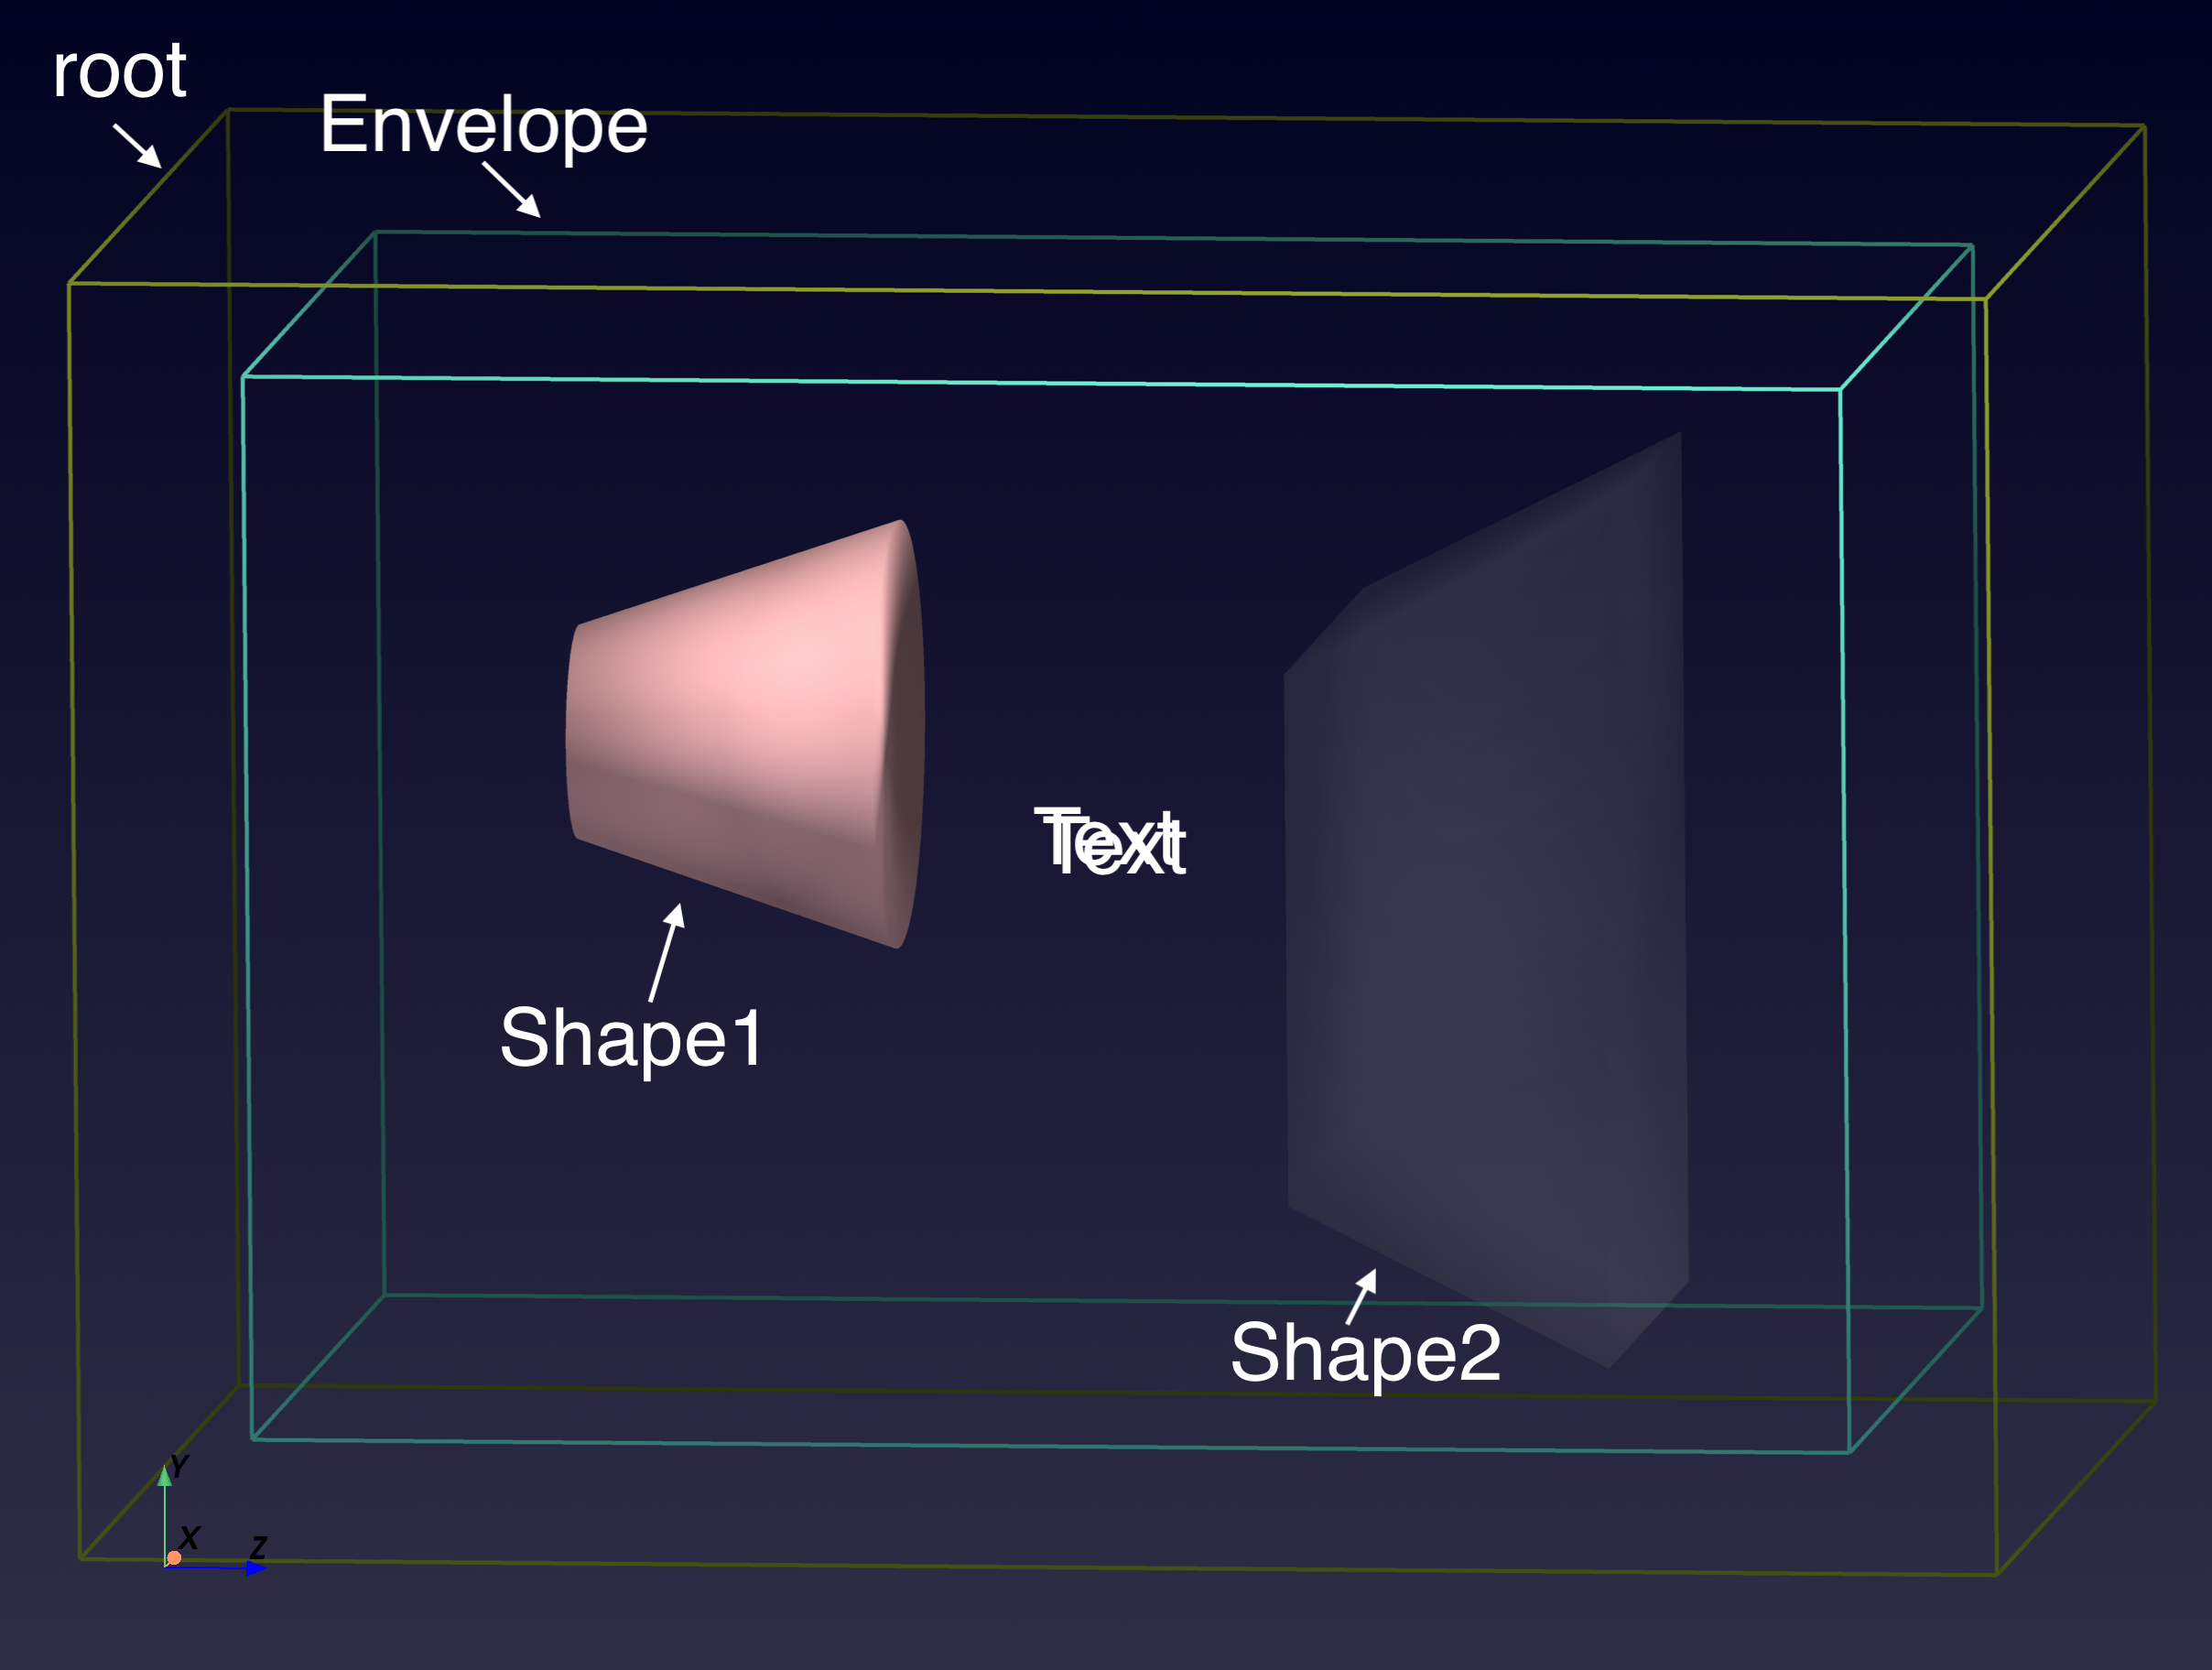
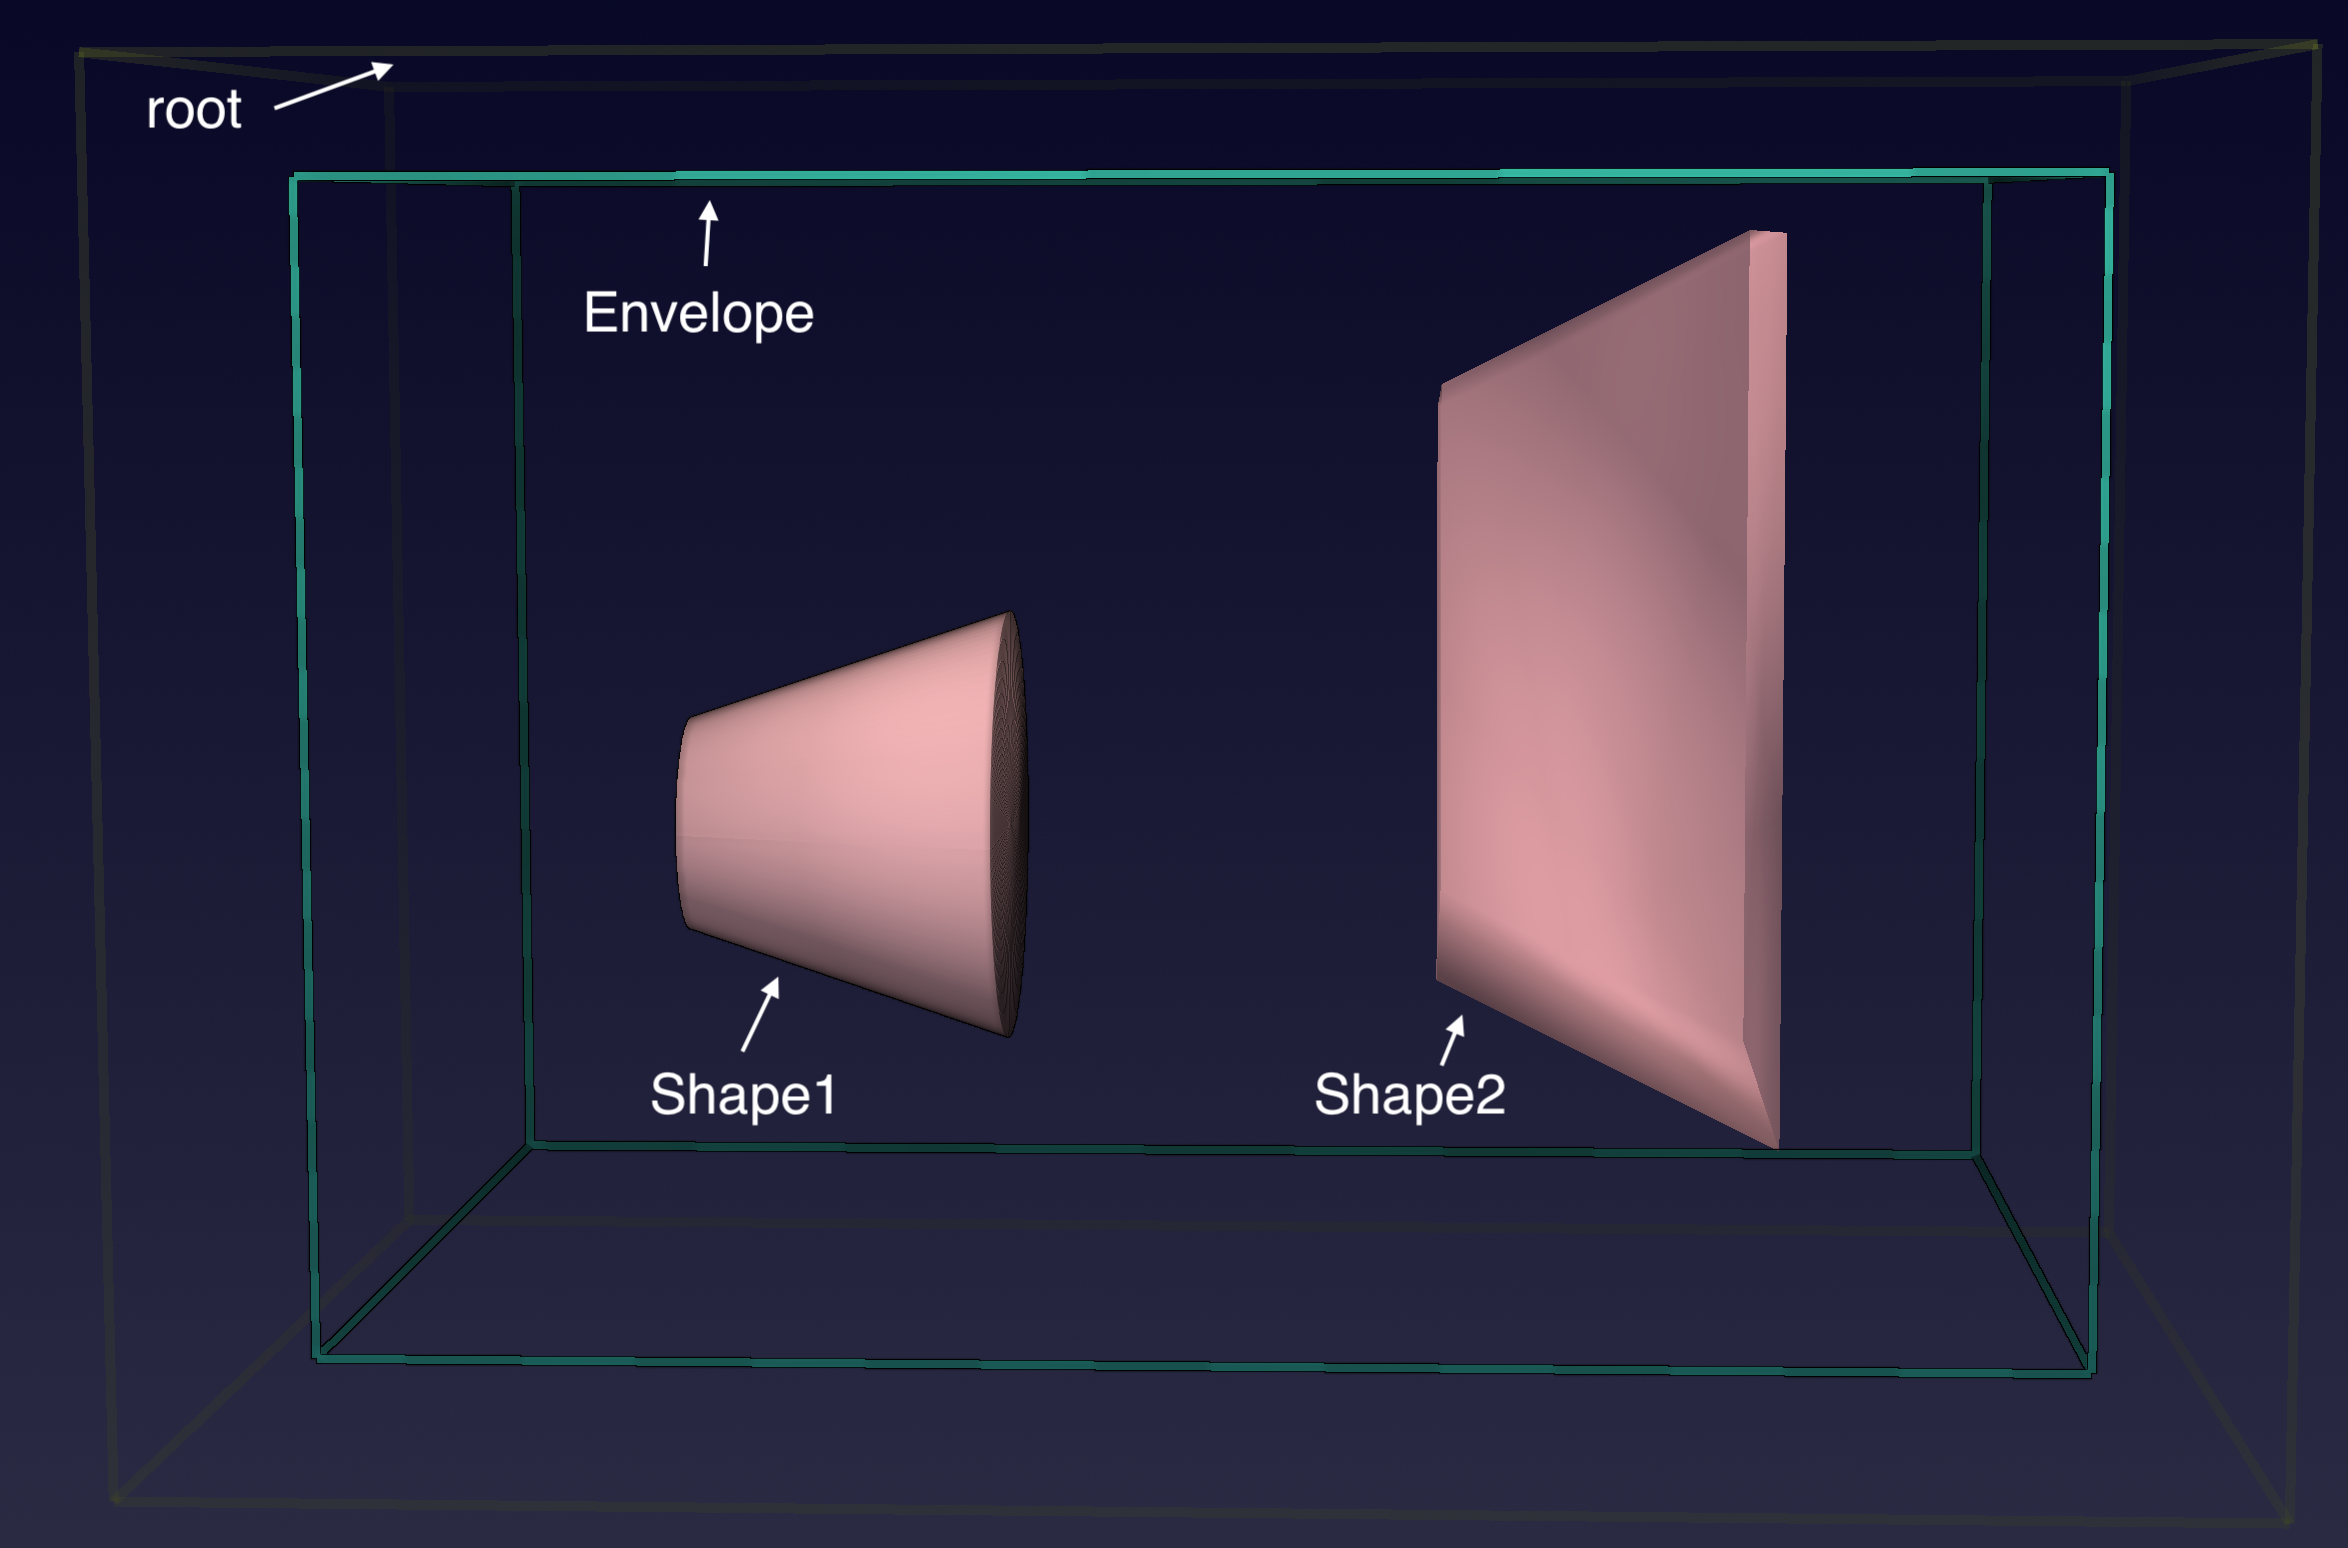
added cherenkov documentation, updated progress

diff --git a/assets/main.scss b/assets/main.scss
@@ -1160,6 +1160,17 @@ blockquote.doc-important img {
   }
 }
 
+/* Larger Markdown / Jekyll task-list checkboxes */
+.task-list-item-checkbox,
+li.task-list-item input[type="checkbox"],
+li input[type="checkbox"] {
+  width: 2.1em;
+  height: 2.1em;
+  margin-right: 0.45em;
+  vertical-align: -0.15em;
+  accent-color: var(--link);
+}
+
 /* ========================================================================== */
 /* Tabs                                                                       */
 /* ========================================================================== */

diff --git a/_examples/optical/cherenkov.md b/_examples/optical/cherenkov.md
@@ -1,0 +1,167 @@
+---
+layout: default
+title: "Cherenkov"
+---
+{% include directory.html data=site.data.examples columns=5 section_breaks=4 %}
+
+[default-img]: /home/assets/images/examples/cherenkov/default.png
+[CO2-img]: /home/assets/images/examples/cherenkov/CO2.png
+[C4F10-img]: /home/assets/images/examples/cherenkov/C4F10.png
+[defaulty-img]: /home/assets/images/examples/cherenkov/default_yield.png
+[CO2y-img]: /home/assets/images/examples/cherenkov/CO2_yield.png
+[C4F10y-img]: /home/assets/images/examples/cherenkov/C4F10_yield.png
+
+
+# Cherenkov Example 
+<hr style="height:4px;border:0;background:#4a90e2;">
+
+<br/>
+
+This example showcases the activation of the Cherenkov radiation in a GEMC detector.
+
+<br/>
+
+## Quickstart
+
+To create the geometry and run GEMC to produce an ASCII and `ROOT` file:
+
+```shell
+cd $GEMC/examples/optical/cherenkov
+./cherenkov.py
+gemc cherenkov.yaml
+```
+
+<br/>
+
+<br/>
+
+## Geometry
+
+The geometry, shown below, is defined in `cherenkov.py`. It is produced in three variations: `default`, `CO2` and `C4F10`.  
+
+The world contains: 
+
+ - a radiator, made up of different materials depending on the variation chosen:
+
+{:.zebra .compact-table}
+
+| variation | material                   | color | 
+|-----------|----------------------------|-------|
+| default   | Carbon tetrafluoride `CF4` | red   |
+| CO2       | Carbon dioxide `CO2`       | blue  |
+| C4F10     | Perfluorobutane `C4F10`    | green |
+
+
+ - a  `flux` detector composed of 4 boxes in order to leave a small hole in the center to let
+   the beam pass through.
+
+
+{% include figure.html
+src="assets/images/examples/cherenkov/geometry.png"
+caption="Cherenkov geometry. The `CF4` default radiator (red, style = 2 renders it as cloud) is the medium generating cherenkov radiation."
+%}
+
+
+<br/>
+
+## Physics List
+
+`FTFP_BERT + G4OpticalPhysics` is used by default in the YAML file.
+Notice the addition of the optical physics.
+
+
+<br/>
+
+## Generator
+
+The default kinematics is a 1 GeV electron beam generated along the z-axis near the start of the radiator.
+This is defined in the YAML file:
+
+```yaml
+gparticle:
+  - name: e-
+    p: 1000
+    vz: -50
+    delta_theta: 20
+    delta_phi: 180
+```
+
+
+<br/>
+
+
+## Digitization
+
+The detector volumes are associated to the `flux` digitization (one of the available GEMC pre-built routines) 
+in `geometry.py`. 
+
+The identifier is used to distinguish the different detector boxes.
+
+
+<br/>
+
+## Usage
+
+### Building the detector
+
+Use the python script `cherenkov.py` to build the detector. By default, the setup is stored in a SQLite file 
+name `gemc.db`. Various command line options can define the database type, variations and run number.
+
+<br/>
+
+### Running gemc
+
+The file `cherenkov.yaml` can be used to run the setup. Add `-gui` to run in interactively:
+
+```shell
+gemc cherenkov.yaml -gui
+```
+
+
+Modify `cherenkov.yaml` as needed, in particular to add particles, control the number of threads, modify the output, etc.
+Notice that since we are using the `flux` digitization, we need to set `recordZeroEdep` to `true` in order to 
+record the optical photons, because by default the `flux` digitization does not record hits if the energy is zero.
+
+<br/>
+
+### Variations
+
+Within the YAML file, the variation is set to `default`. You can replace it `CO2` or `C4F10` 
+to change the material. For example:
+
+```yaml
+gsystem:
+  - name: cherenkov
+    variation: C4F10
+```
+
+Different radiators material will produce different photon yields, and at different angles, see the image below.
+We suggest tp match the variation name to the file name in the `gstreamer` option.
+
+
+<br/>
+
+|:---------------:|:-----------:|:-----------:|
+| ![default-img]  | ![CO2-img]  | ![C4F10-img] |
+| ![defaulty-img] | ![CO2y-img] | ![C4F10y-img] |
+
+<p class="image-caption">
+  Left: default (<code>CF4</code>) radiator, Center: <code>CO2</code>, Right: <code>C4F10</code>.
+</p>
+
+<br/>
+
+## Output
+
+The `gstreamer` option is used to select the name and format of the output. Two simultaneous streams are selected, 
+`ROOT` and `ASCII`:
+
+
+Since `flux` is a per-event digitization, GEMC will produce one output file per thread.
+For `ROOT` files, you can use `hadd` to merge the files.
+
+
+
+<br/>
+
+<br/>

diff --git a/_posts/2026-05-06-next-release-0.2.md b/_posts/2026-05-06-next-release-0.2.md
@@ -1,7 +1,7 @@
 ---
 layout: post
 title: "Upcoming in GEMC 0.2"
-date: 2026-05-11
+date: 2026-05-12
 categories: news
 tags: [release, generator, examples, pyvista]
 progress:
@@ -11,10 +11,10 @@ progress:
     value: 25
   - label: "Materials example "
     value: 35
-  - label: "Pyvista examples "
+  - label: "Pyvista example "
     value: 25
-  - label: "Cherenkov examples "
-    value: 0
+  - label: "Cherenkov example "
+    value: 60
   - label: "LUND support for generator"
     value: 0
   - label: "Analyzer Scripts"
@@ -23,8 +23,7 @@ progress:
     value: 0
 ---
 
-Several GEMC features are currently under active development: Jupyter support, LUND format for
-particle generators, more examples, and bug fixes.
+Several GEMC features are currently under active development: 
 
 <br/>
 
@@ -36,7 +35,7 @@ particle generators, more examples, and bug fixes.
 
 <br/>
 
-## Issues to be addressed:
+## Issues:
 
-- [ ] [#80: Add batch screenshot](https://github.com/gemc/src/issues/80)
-- [ ] [#81: Fix Cherenkov bug](https://github.com/gemc/src/issues/81)
+- [x] [#80: Add batch screenshot](https://github.com/gemc/src/issues/80)
+- [x] [#81: Fix Cherenkov bug](https://github.com/gemc/src/issues/81)

diff --git a/_includes/notes/output-note.md b/_includes/notes/output-note.md
@@ -37,9 +37,9 @@ Run `gemc help gstreamer` to check its documentation:
 
 	The produced files structure depends on the accumulation method used:
 
-	  - event-based digitization (like <flux>) will have one file for every j 
-	    thread, with "_tj" appended to the filename
-	  - run-based digitization (like <dosimeter>) will have one file only
+	  - event-based digitization (like <flux>) will have one file per 
+	    thread, with "_t<thread#>" appended to the filename
+	  - run-based digitization (like <dosimeter>) will have one output file
 
 </blockquote>
 